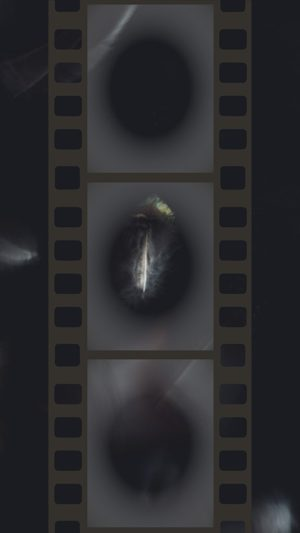
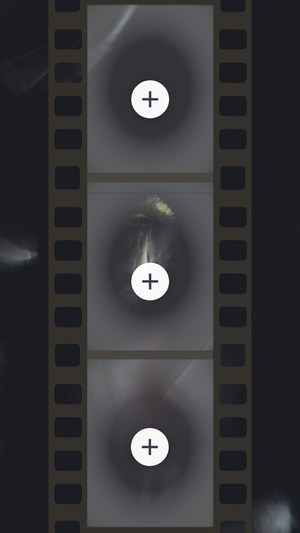
Collage empty state: photo wells + plus badges replace dashed outlines; thumbs show layouts

diff --git a/customizer.html b/customizer.html
@@ -768,7 +768,8 @@
     var m=tplMap();
     return t.slots.map(function(sl){
       return {x:m.ox+(sl.cx-sl.w/2)*1080*m.sc, y:m.oy+(sl.cy-sl.h/2)*1920*m.sc,
-              w:sl.w*1080*m.sc, h:sl.h*1920*m.sc, rot:(sl.rot||0)*Math.PI/180};
+              w:sl.w*1080*m.sc, h:sl.h*1920*m.sc, rot:(sl.rot||0)*Math.PI/180,
+              lum:(sl.lum!=null?sl.lum:200)};
     });
   }
   function drawCollageInto(c2, forPrint){
@@ -784,18 +785,19 @@
       c2.rotate(r.rot);
       if(ph){ coverDraw(c2, ph, -r.w/2, -r.h/2, r.w, r.h); }
       else if(!forPrint){
-        c2.strokeStyle='rgba(255,255,255,.9)'; c2.setLineDash([18,12]); c2.lineWidth=7;
-        c2.strokeRect(-r.w/2+6,-r.h/2+6,r.w-12,r.h-12);
-        c2.strokeStyle='rgba(45,45,59,.55)'; c2.lineWidth=3;
-        c2.strokeRect(-r.w/2+6,-r.h/2+6,r.w-12,r.h-12);
-        c2.setLineDash([]);
-        var fs=Math.max(56,Math.min(r.w,r.h)*0.32);
-        c2.font='800 '+fs+'px -apple-system,sans-serif';
-        c2.textAlign='center'; c2.textBaseline='middle';
-        c2.lineWidth=8; c2.strokeStyle='rgba(255,255,255,.85)';
-        c2.strokeText('+', 0, 0);
-        c2.fillStyle='rgba(45,45,59,.8)';
-        c2.fillText('+', 0, 0);
+        c2.fillStyle = r.lum>140 ? 'rgba(45,45,59,.055)' : 'rgba(255,255,255,.10)';
+        c2.fillRect(-r.w/2,-r.h/2,r.w,r.h);
+        var br=Math.max(34,Math.min(r.w,r.h)*0.15);
+        c2.save();
+        c2.shadowColor='rgba(0,0,0,.20)'; c2.shadowBlur=br*0.55; c2.shadowOffsetY=br*0.08;
+        c2.fillStyle='rgba(255,255,255,.97)';
+        c2.beginPath(); c2.arc(0,0,br,0,6.2832); c2.fill();
+        c2.restore();
+        c2.strokeStyle='#3c3c4a'; c2.lineWidth=Math.max(5,br*0.13); c2.lineCap='round';
+        c2.beginPath();
+        c2.moveTo(-br*0.42,0); c2.lineTo(br*0.42,0);
+        c2.moveTo(0,-br*0.42); c2.lineTo(0,br*0.42);
+        c2.stroke();
       }
       c2.restore();
     }
